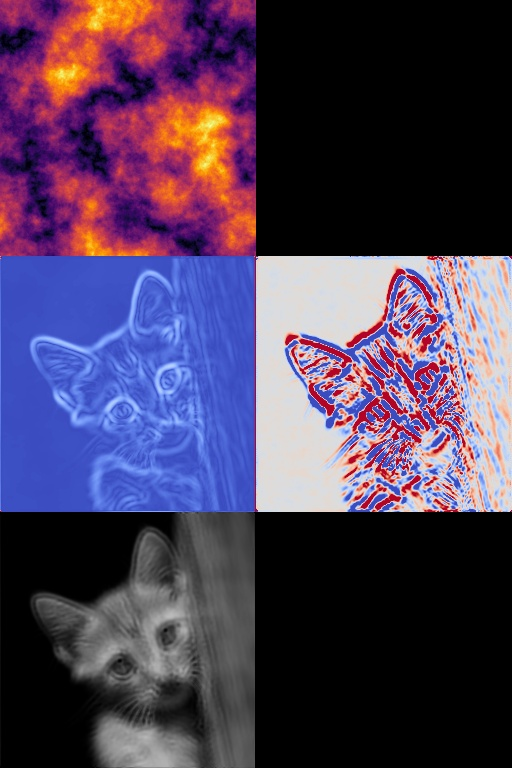
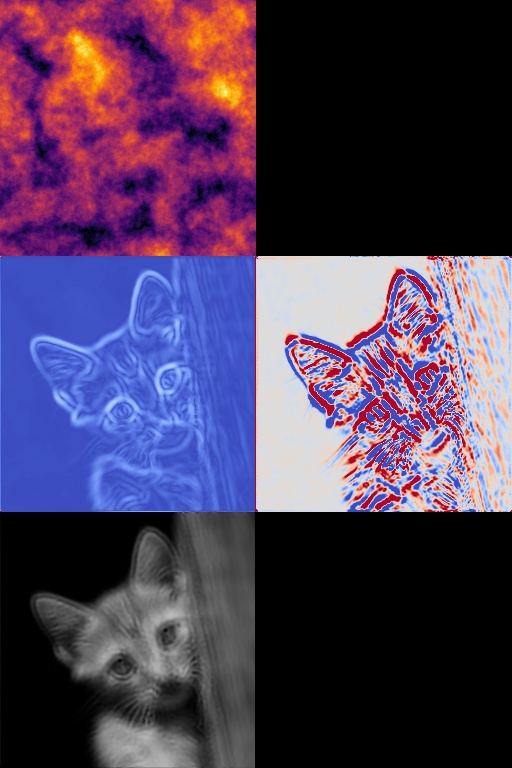
dcdc

Changed region(s): [[0.0, 0.0, 0.5, 0.3438], [0.9688, 0.4062, 1.0, 0.5625], [0.5, 0.4375, 0.5312, 0.5312]]

diff --git a/numerical_solvers/data_holders/CorruptedDatasetCreator.py b/numerical_solvers/data_holders/CorruptedDatasetCreator.py
@@ -1,19 +1,19 @@
-
-# %% dataset
-import torch
+# import torch
 from torchvision import datasets, transforms
-from torch.utils.data import DataLoader, Dataset
-from PIL import Image, ImageFilter
-import os, errno
+from torch.utils.data import DataLoader
+# , Dataset
+# from PIL import Image, ImageFilter
+import os
+# , errno
 import torchvision
-import numpy as np
+# import numpy as np
 from matplotlib import pyplot as plt
-import matplotlib.colors as mcolors
+# import matplotlib.colors as mcolors
 import matplotlib.pyplot as plt
 import matplotlib
 from timeit import default_timer as timer
 
-import sys
+# import sys
 from pathlib import Path
 
 from numerical_solvers.data_holders.LBM_NS_Corruptor import LBM_NS_Corruptor
@@ -22,21 +22,27 @@ from scripts import datasets as ihd_datasets
 from scripts.utils import save_png_norm
 from configs.mnist.lbm_ns_turb_config import get_lbm_ns_config
 
-# sys.path.insert(0, '../../')
-                                
-# %% dataset
-# Create the DiffusedMNIST dataset
-if __name__ == '__main__': 
-    print(f"Current working directory \t {os.getcwd()}")
-    current_file_path = Path(__file__).resolve()
-    # Determine the base folder (project root)
-    base_folder = current_file_path.parents[2]  # Adjust the number depending on your project structure
-    print(f"Base folder: {base_folder}")
-    
-    is_train_dataset = True
+def corrupt_dataset(original_dataset, processed_dataset_path, transform, is_train_dataset=True, process_pairs=True, process_all=True):
 
-    input_data_dir = os.path.join(base_folder, "data")
-    output_data_dir = os.path.join(input_data_dir, 'corrupted_MNIST')
+    solver_config = get_lbm_ns_config()
+    lbm_ns_Corruptor = LBM_NS_Corruptor(
+        solver_config,                                
+        transform=transform)
+    
+    lbm_ns_Corruptor._preprocess_and_save_data(
+        initial_dataset = original_dataset,
+        save_dir = processed_dataset_path,
+        is_train_dataset = is_train_dataset,
+        process_pairs = process_pairs,
+        process_all = process_all)
+
+def preprocess(input_data_dir, output_data_dir, is_train_dataset=True, process_pairs=True, debug=False):
+    if debug:
+        print(f"Current working directory \t {os.getcwd()}")
+        print(f"Base folder: {base_folder}")
+    
+    current_file_path = Path(__file__).resolve()
+    base_folder = current_file_path.parents[2]  # depending on your project structure
     
     # https://github.com/pytorch/vision/blob/main/references/segmentation/transforms.py
     transform = transforms.Compose([torchvision.transforms.ToTensor()])
@@ -45,36 +51,28 @@ if __name__ == '__main__':
                                     batch_size=8, shuffle=True)
 
     x, y = next(iter(original_dataloader))
-    print('Input shape:', x.shape)
-    print('batch_size = x.shape[0]:', x.shape[0])
-    print('Labels:', y.shape)
-    plt.imshow(torchvision.utils.make_grid(x)[0], cmap='Greys');
-    
-    # %% lbmize
-    start = timer()
-    initial_dataset = datasets.MNIST(root=input_data_dir, train=is_train_dataset, download=True)
-    
-    
-    
-    solver_config = get_lbm_ns_config()
-    lbm_ns_Corruptor = LBM_NS_Corruptor(
-        solver_config,                                
-        transform=transform)
-    
-    corrupted_dataset_dir = os.path.join(output_data_dir, 'lbm_ns_pair')
-    process_pairs=True
-    
-    lbm_ns_Corruptor._preprocess_and_save_data(
-        initial_dataset=initial_dataset,
-        save_dir=corrupted_dataset_dir,
-        is_train_dataset = is_train_dataset,
-        process_pairs = process_pairs,
-        process_all=True)
-    
-    end = timer()
-    print(f"Time in seconds: {end - start:.2f}")
 
-    
+    if debug:
+        print('Input shape:', x.shape)
+        print('batch_size = x.shape[0]:', x.shape[0])
+        print('Labels:', y.shape)
+        plt.imshow(torchvision.utils.make_grid(x)[0], cmap='Greys');
+
+    corrupted_dataset_dir = os.path.join(output_data_dir, 'lbm_ns_pair')
+
+    initial_dataset = datasets.MNIST(root=input_data_dir, train=is_train_dataset, download=True)
+
+    start = timer()
+    corrupt_dataset(
+        initial_dataset,
+        corrupted_dataset_dir,
+        transform,
+        process_pairs=process_pairs
+        )
+    end = timer()
+    if debug:
+        print(f"Time in seconds: {end - start:.2f}")
+
     # use same transform as in ihd code
     # transform = [
     #             torchvision.transforms.ToPILImage()
@@ -91,31 +89,44 @@ if __name__ == '__main__':
                                        target_transform=None, 
                                        load_dir=corrupted_dataset_dir)
 
-
-
-    
     corrupted_dataloader = DataLoader(lbm_mnist_pairs, batch_size=8, shuffle=True)
+
     if process_pairs:
-        print(f"==processing pairs===")
+        if debug:
+            print(f"\nProcessing pairs\n")
         # x, (y, pre_y, corruption_amount, labels) = next(iter(corrupted_dataloader))
         # alternatively
         x, batch = ihd_datasets.prepare_batch(iter(corrupted_dataloader),'cpu')
         y, pre_y, corruption_amount, labels = batch
     else:
         x, (y, corruption_amount, labels) = next(iter(corrupted_dataloader))
-    print('Input shape:', x.shape)
-    print('batch_size = x.shape[0]:', x.shape[0])
-    print('Labels:', labels)
-    print('corruption_amount:', corruption_amount)
     
+    if debug:
+        print('Input shape:', x.shape)
+        print('batch_size = x.shape[0]:', x.shape[0])
+        print('Labels:', labels)
+        print('corruption_amount:', corruption_amount)
+        save_png_norm(
+            current_file_path.parents[0],
+            y,
+            "test_norm.png")
+        plt.imshow(
+            torchvision.utils.make_grid(x)[0],
+            cmap='Greys'
+            )
+        plt.imshow(
+            torchvision.utils.make_grid(y)[0], 
+            norm=matplotlib.colors.Normalize(vmin=0.95, vmax=1.05),
+            cmap='Greys'
+            )
 
-    save_png_norm(current_file_path.parents[0], y, "test_norm.png")
-    
-    
-    plt.imshow(torchvision.utils.make_grid(x)[0], cmap='Greys');
-    # # plt.imshow(torchvision.utils.make_grid(y)[0], cmap='Greys');
-    
-    plt.imshow(torchvision.utils.make_grid(y)[0], 
-               norm=matplotlib.colors.Normalize(vmin=0.95, vmax=1.05),
-               cmap='Greys')
+def main():
+    input_data_dir = os.path.join(base_folder, "data")
+    output_data_dir = os.path.join(input_data_dir, dataset_name)
+    preprocess(
+        input_data_dir,
+        output_data_dir
+    )
 
+if __name__ == '__main__': 
+    main()

diff --git a/numerical_solvers/solvers/LBM_NS_Solver.py b/numerical_solvers/solvers/LBM_NS_Solver.py
@@ -9,13 +9,20 @@ from numerical_solvers.solvers.GaussianTurbulenceGenerator import get_gaussian_n
 # Fluid solver based on lattice boltzmann method using taichi language
 # Inspired by: https://github.com/hietwll/LBM_Taichi
 
-
 @ti.data_oriented
 class LBM_NS_Solver(LBM_SolverBase):
-    def __init__(self, name, domain_size, kin_visc, bulk_visc, turbulenceGenerator: SpectralTurbulenceGenerator):
-        self.omega_bulk = 1.0 / (3.0 * bulk_visc + 0.5) 
+    def __init__(
+            self,
+            name,
+            domain_size,
+            kin_visc,
+            bulk_visc,
+            turbulenceGenerator: SpectralTurbulenceGenerator,
+            debug = False
+            ):
         super().__init__(name, domain_size, kin_visc, turbulenceGenerator)
-            
+        self.debug = False        
+        self.omega_bulk = 1.0 / (3.0 * bulk_visc + 0.5) 
             
     def init(self, np_gray_image): 
         self.rho.from_numpy(np_gray_image)
@@ -34,6 +41,7 @@ class LBM_NS_Solver(LBM_SolverBase):
             # self.collide()
             self.collide_cm()
              
+            # TODO: Turn this on to add advection.
             u_turb, v_turb = self.turbulenceGenerator.generate_turbulence(self.iterations_counter)     
             turb_numpy = np.stack((u_turb, v_turb), axis=-1)  # Shape becomes (128, 128, 2)
             self.Force.from_numpy(turb_numpy)
@@ -42,11 +50,9 @@ class LBM_NS_Solver(LBM_SolverBase):
             self.apply_bb()
             self.iterations_counter = self.iterations_counter +1
             
-        if self.iterations_counter % 10 == 0:
+        if self.iterations_counter % 10 == 0 and self.debug:
             print(f"iterations: {self.iterations_counter}")
-                            
-
-               
+                             
         # periodic wip
         # for j in range(0, self.ny):
         # # right bc to left bc
@@ -64,8 +70,6 @@ class LBM_NS_Solver(LBM_SolverBase):
             for k in ti.static(range(9)):
                 feq = self.f_eq(i, j)
                 self.f_new[i, j][k] = (1 - self.omega_kin) * self.f[i, j][k] + feq[k] * self.omega_kin
-    
-
         
     @ti.kernel
     def collide_cm(self):
@@ -76,7 +80,6 @@ class LBM_NS_Solver(LBM_SolverBase):
             # noise = 0.1*get_gaussian_noise(0,1)
             # self.vel[i, j] = ti.Vector([noise[0], noise[1]]) # run as ade
             
-            
             #=== THIS IS AUTOMATICALLY GENERATED CODE ===
             ux = self.vel[i, j][0]
             uy = self.vel[i, j][1]
@@ -84,7 +87,6 @@ class LBM_NS_Solver(LBM_SolverBase):
             uxuy = self.vel[i, j][0]*self.vel[i, j][1]
             ux2 = self.vel[i, j][0]*self.vel[i, j][0]
             uy2 = self.vel[i, j][1]*self.vel[i, j][1]
-            
             
             #raw moments from density-probability functions
             self.f_new[i,j][0] = self.f[i,j][0] + self.f[i,j][1] + self.f[i,j][2] + self.f[i,j][3] + self.f[i,j][4] + self.f[i,j][5] + self.f[i,j][6] + self.f[i,j][7] + self.f[i,j][8]

diff --git a/numerical_solvers/runners/taichi_lbm_NS_picture_diffuser.py b/numerical_solvers/runners/taichi_lbm_NS_picture_diffuser.py
@@ -57,7 +57,7 @@ if __name__ == '__main__':
     grid_size = np_gray_image.shape
     turb_intensity = 1E-4
     noise_limiter = (-1E-3, 1E-3)
-    dt_turb = 5E-4 
+    dt_turb = 3E-3
 
     # turb_intensity = 1E-3
     # energy_spectrum = lambda k: np.where(np.isinf(k), 0, k)
@@ -72,7 +72,6 @@ if __name__ == '__main__':
         energy_spectrum=energy_spectrum, frequency_range=frequency_range, 
         dt_turb=dt_turb, 
         is_div_free = False)
-    
     
     niu = 0.5*1/6
     bulk_visc = 0.5*1/6
